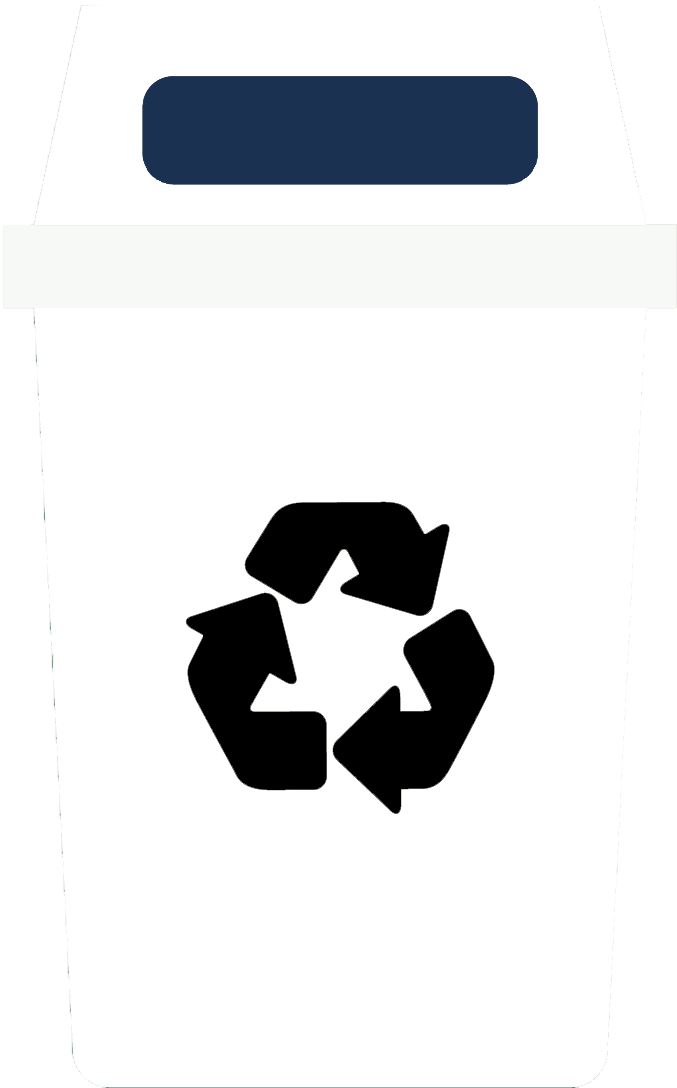
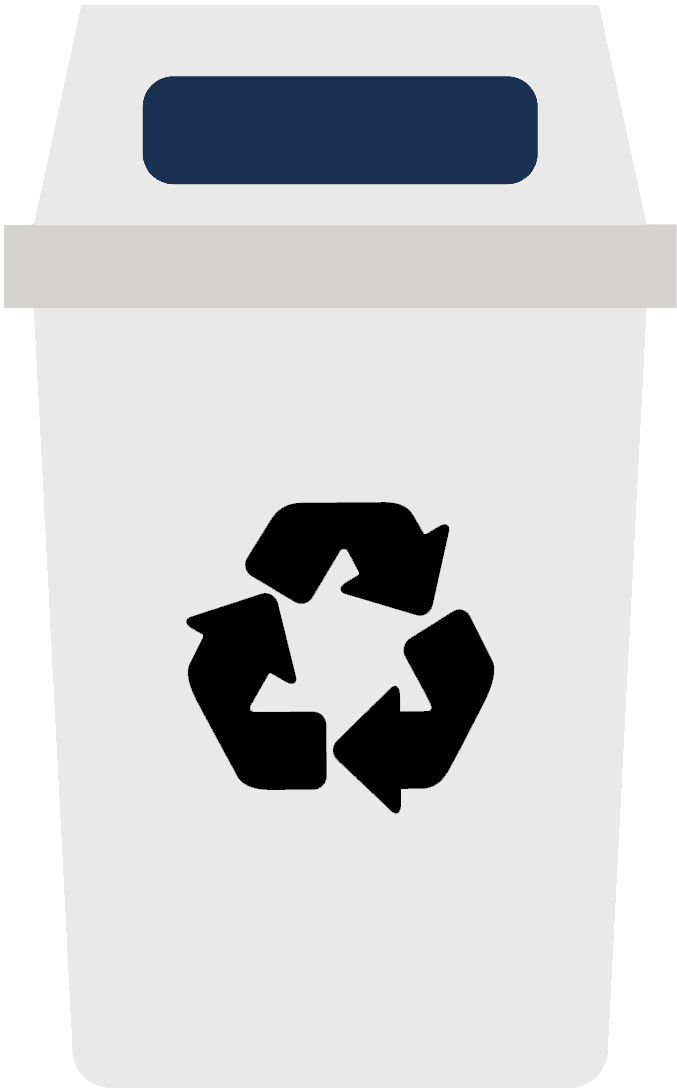
atualização
fim do conteudo

Changed region(s): [[0.0, 0.1875, 1.0, 0.2812]]

diff --git a/src/Pages/Sobre/Sobre.js b/src/Pages/Sobre/Sobre.js
@@ -103,9 +103,9 @@ export default function sobre(props) {
                 <h4>Fábio Eloy 👨💻</h4>
                 <br />
                 <p>
-                  Fabio exerceu o papel do principal programador do projeto ReCircle, selecionou a linguagem
+                  Fabio exerceu o papel do principal programador do projeto Recicle, selecionou a linguagem
                   de programação React para o back-end e auxiliou na programação do Mapa, no qual foi portado
-                  pelo Leaflet na linguagem JavaScript. Com isso o membro da equipe desenvolveu e auxiliou os
+                  pelo Leaflet na linguagem TypeScript. Com isso o membro da equipe desenvolveu e auxiliou os
                   demais participantes em diversas amplitudes do projeto. Fabio também foi responsável por
                 elaborar o GitHub do ReCircle, no qual é formado por um código aberto e de fácil acesso.<br />
                 </p>
@@ -253,20 +253,10 @@ export default function sobre(props) {
                 <h4>Simone Andreia de Campos 👩🏫</h4>
                 <br />
                 <p>
-                  João idealizou o projeto em objetivo de facilitar e ajudar na procura do ideal descarte dos lixos que,
-                  muitas das vezes, é desconhecido por parte do usuário. O membro da equipe gerou os primeiros protótipos
-                  do site e foi responsável, posteriormente, por auxiliar na criação e desenvolvimentos dos demais recursos
-                  funcionais e visuais do projeto. A aba de conteúdo sobre cada membro do projeto juntamente com a localização e reconhecimento
-                  de todos os pontos de descarte da região foi elaborada por ele.
+                  Simone Andreia foi um dos professores que orientou a criação do TCC juntamente com a
+                  professor Marcos Rodrigo. Lesciona na Escola Tecnica Pedro Ferreira Alves como professora de curso
+                  tecnico de informatica.
                 </p>
-              </div>
-              <div className="redes_cardSobre">
-                <a className="a_sobre" href="https://github.com/PudimTI" target="_blank">
-                  <GithubOutlined style={{ paddingRight: "12px" }} />
-                </a>
-                <a className="a_sobre" href="" target="_blank">
-                  <LinkedinOutlined />
-                </a>
               </div>
             </div>
             {/* */}

diff --git a/src/Pages/Dicas/Dicas.js b/src/Pages/Dicas/Dicas.js
@@ -6,6 +6,7 @@ import LixoAzul from "../../Components/lixoAzul";
 import LixoMarrom from "../../Components/lixoMarrom";
 import LixoVerde from "../../Components/lixoVerde";
 import LixoVermelho from "../../Components/lixoVermelho";
+import LixoBranco from "../../Components/lixoBranco";
 import Table from "../../Components/Table";
 
 import "../../Pages/Dicas/dicas.css";
@@ -232,13 +233,20 @@ export default function Dicas() {
               <div className="col-12">
                 <div className="row">
                   <div className="col-md-2 col-sm-6 m-2 div-img img-dica d-flex justify-content-center">
-                    <div className="img-dica mt-3">{<LixoMarrom />}</div>
+                    <div className="img-dica mt-3">{<LixoBranco />}</div>
                   </div>
                   <div className="col-md-9 col-sm-7 m-2 text-dicas">
                     <div>
-                      Lorem ipsum dolor sit amet consectetur adipisicing elit.
-                      Possimus minima dolorem facere optio quam. Aliquam
-                      possimus...
+                      <h4>Eletrônico</h4>
+                      <p>
+                        Mais de 50 milhões de toneladas de resíduos eletrônicos, como computadores e celulares, são criados anualmente. Empresas vendem produtos que se destinam a ser descartáveis, ou seja, que tenham propositalmente baixa durabilidade. Assim, consumidores são obrigados a comprar novos modelos, porém, tal ato contribui para a alta poluição causada por este tipo de lixo.
+                      </p><p>
+                        Mais de 70% do lixo eletrônico acaba na China, onde grande parte é reciclada em oficinas familiares. Seus métodos de reciclagem são muitas vezes primitivos e podem criar sérios contaminantes ambientais e riscos à saúde.
+                      </p><p>
+                        Agbogbloshie é um dos maiores lixões eletrônicos do mundo. Localizado na cidade de Accra, em Gana, o local é considerado o mais tóxico do planeta.
+                      </p><p>
+                        A quantidade de lixo eletrônico entregue a cada ano equivale a 100 milhões de árvores.
+                      </p>
                     </div>
                   </div>
                 </div>

diff --git a/src/Components/lixoBranco.js b/src/Components/lixoBranco.js
@@ -1,0 +1,16 @@
+import React from "react";
+import imglixo from "../assets/lixo branco.png";
+
+function Branco() {
+  return (
+    <img style={{ display: "flex", height: "150px", marginTop: "25px", marginBottom: "15px"}}
+      src={imglixo}
+      alt="Reciclagem"
+      height={"100%"}
+      width={"100px"}
+      margin="10px"
+    />
+  );
+}
+
+export default Branco;
